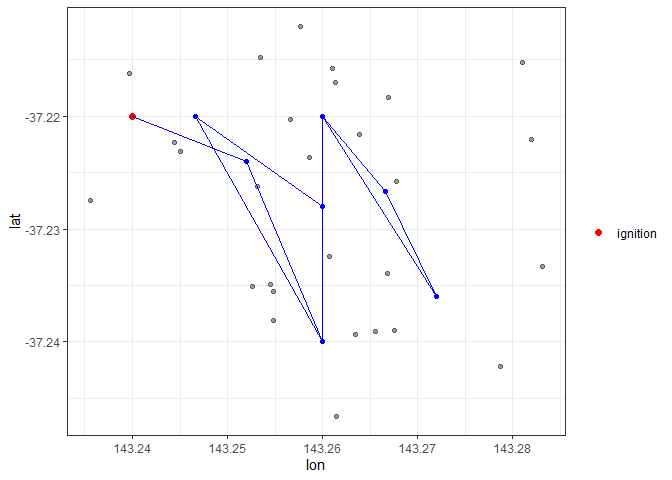
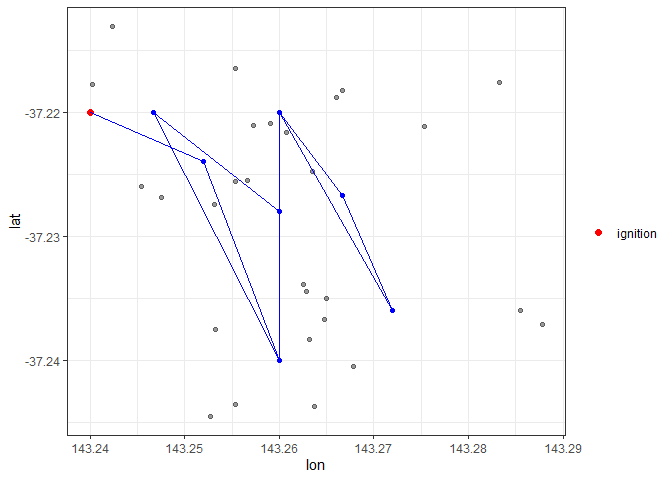
update readme

diff --git a/README.md b/README.md
@@ -167,7 +167,7 @@ p <- ggplot() +
   ggthemes::theme_map()
 plot(results,
      type = "static",
-     clusters = 1:10,
+     clusters = 1:3,
      hotspots = TRUE, 
      noises = FALSE, 
      ignitions = TRUE)
